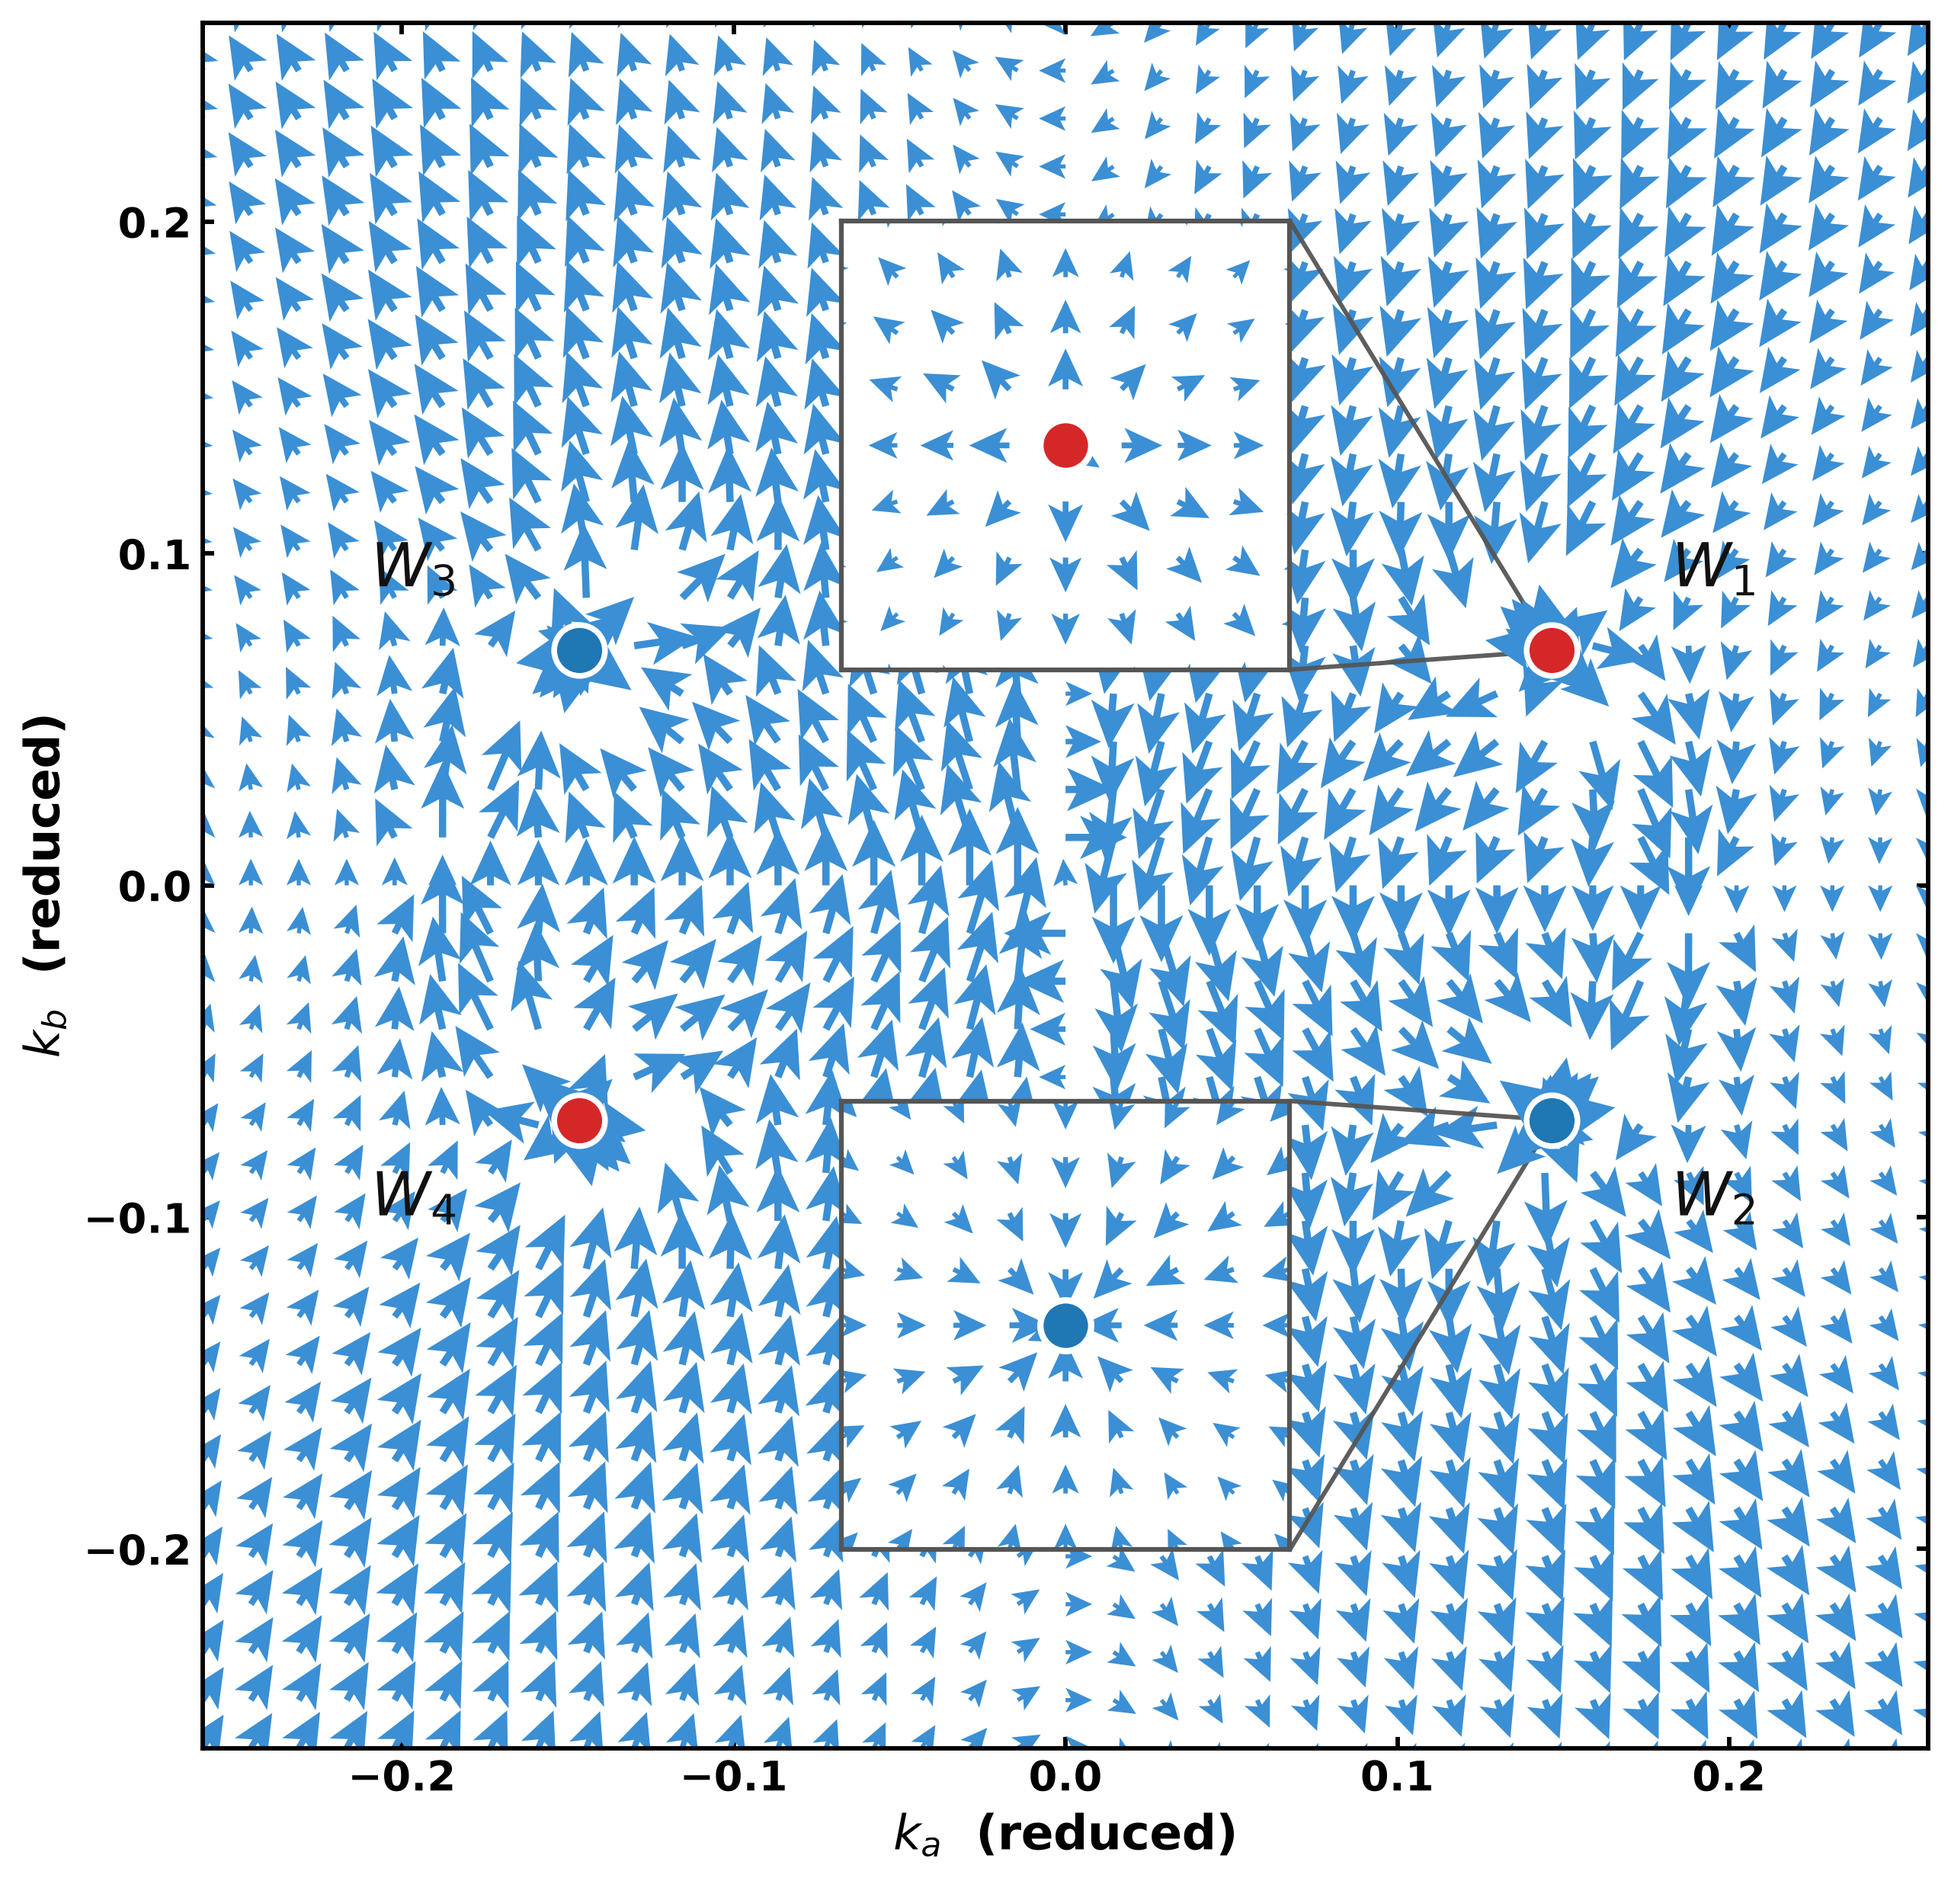
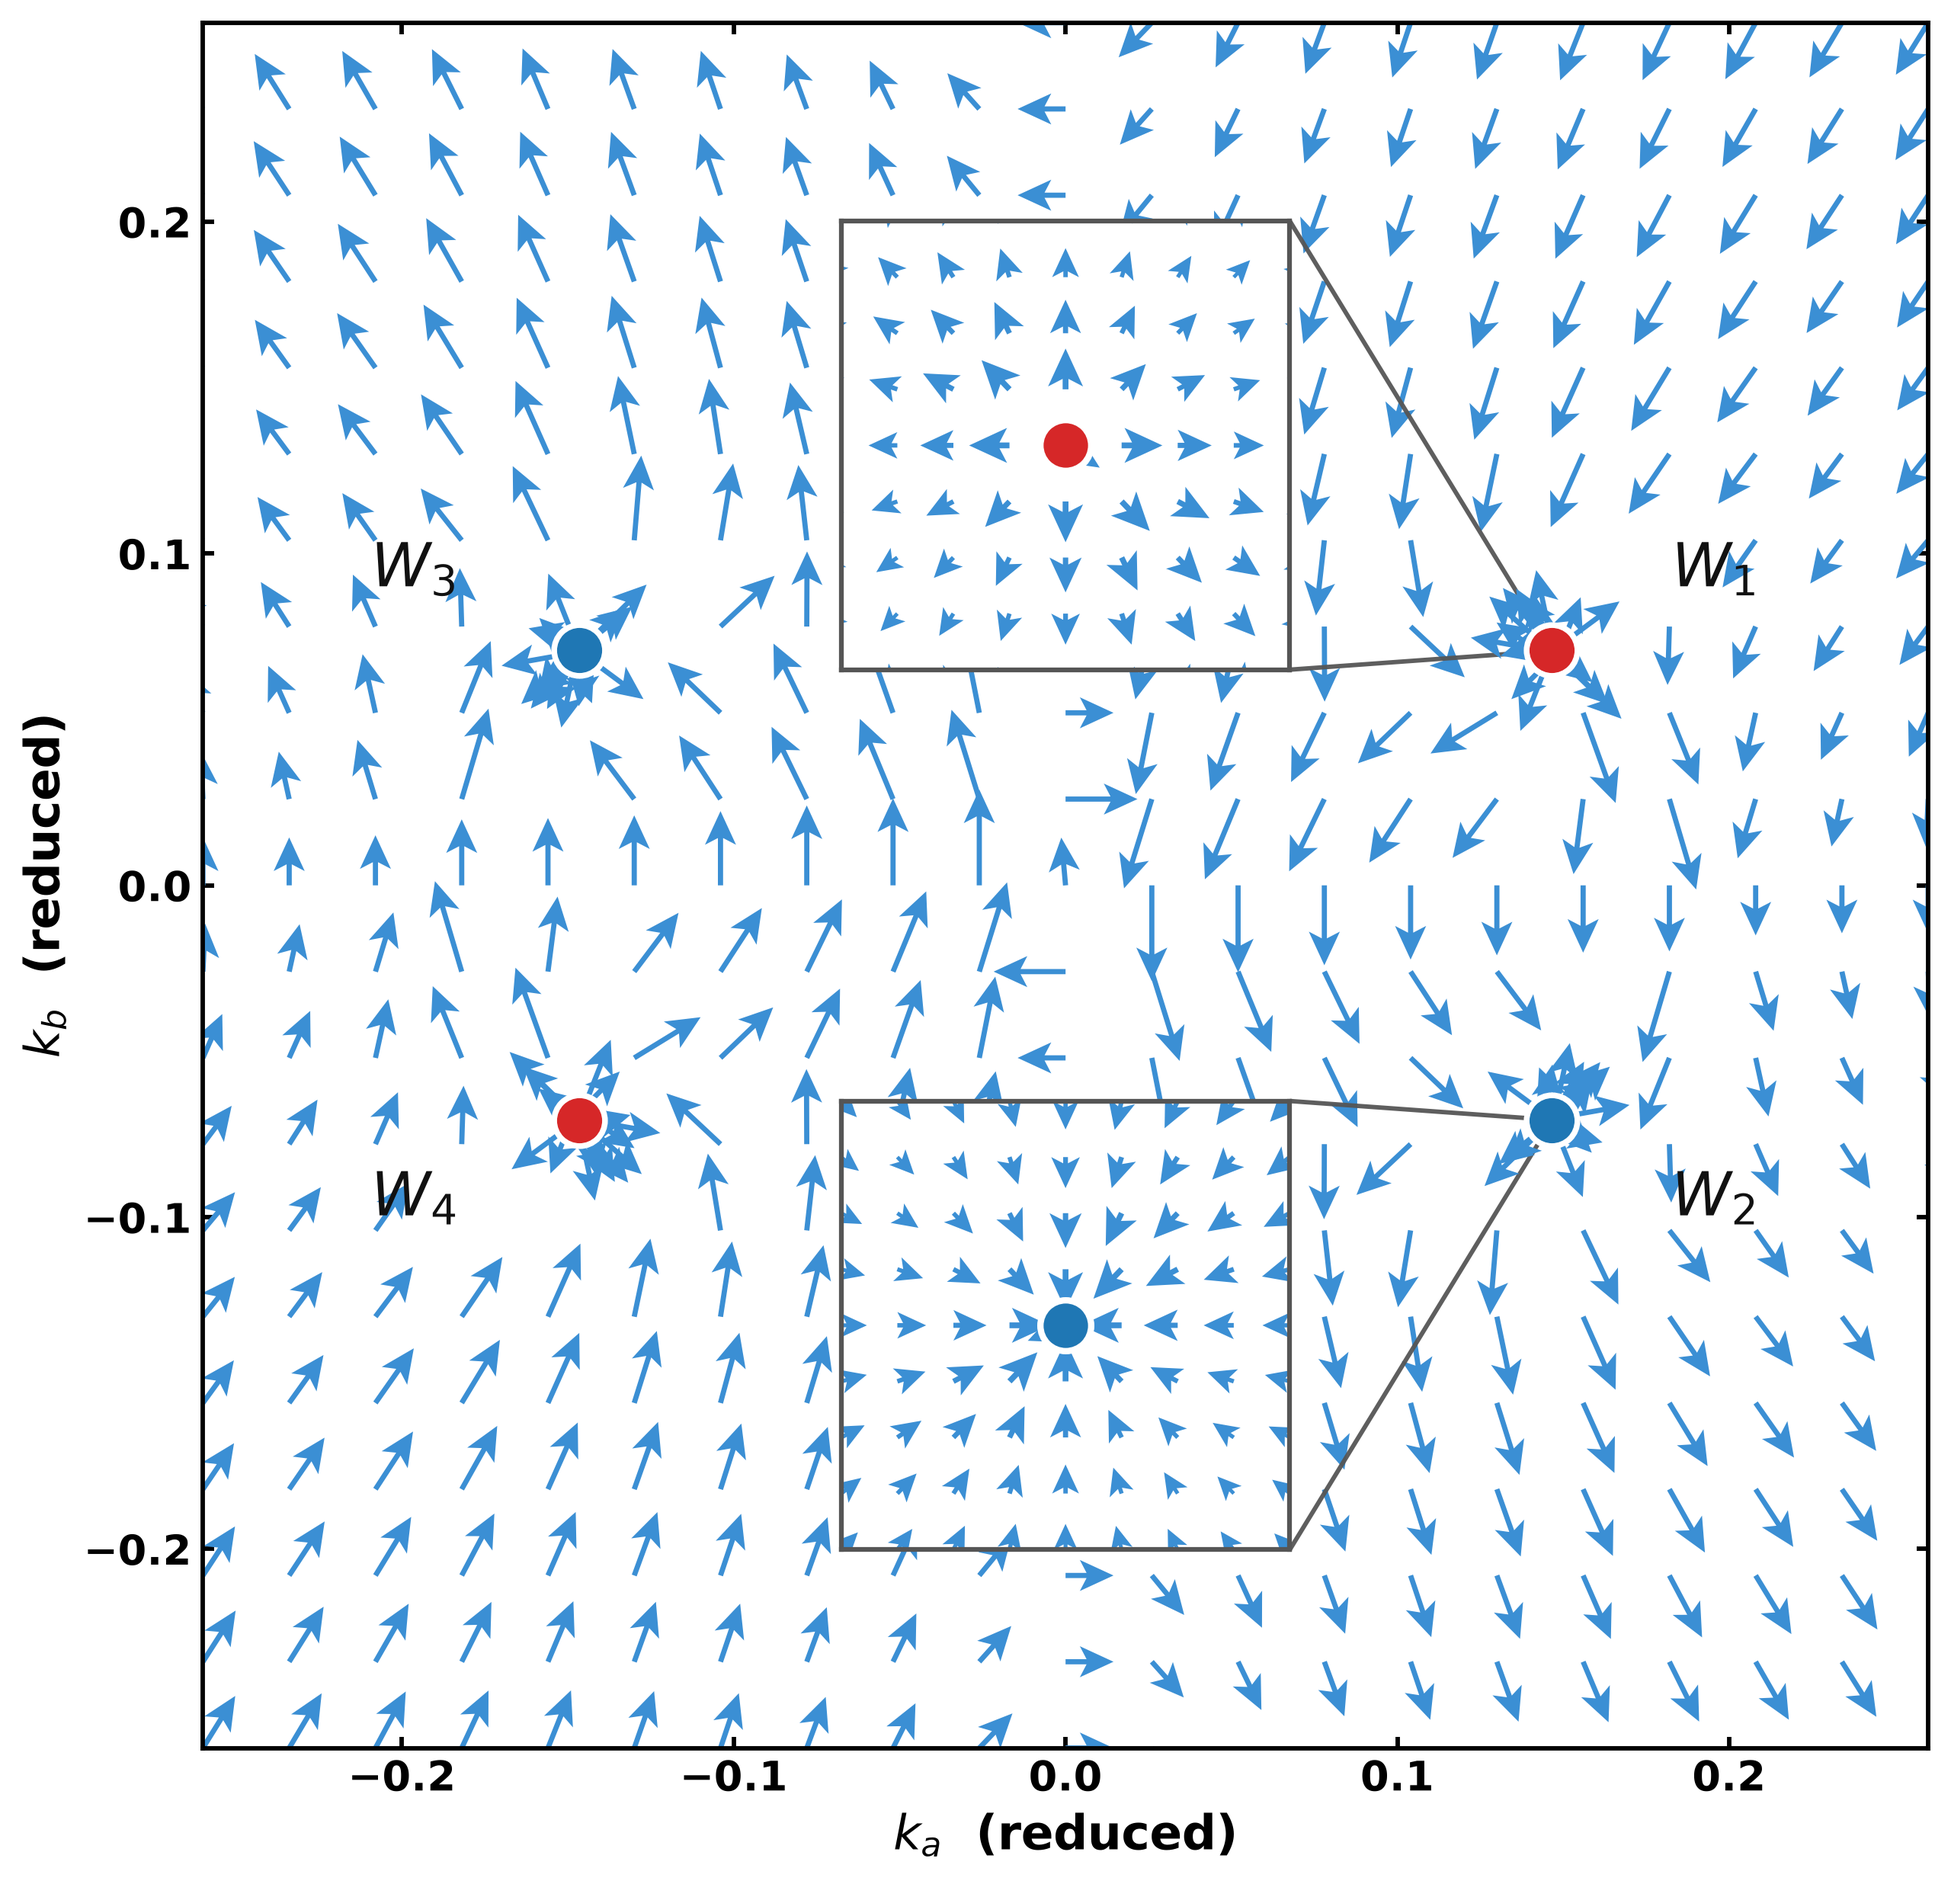
fig9: 전체 장 격자 37x37 -> 21x21, 화살표 꼬리 길이 확대
- 격자 간격 0.0144 -> 0.026
- 화살표 길이 확대 (scale 22 -> 18), 길이 하한 0.34 -> 0.50 으로 짧은 화살표도
  대가 보이게.  머리는 shaft width 단위라 width 0.0042 -> 0.0030 으로 줄여
  머리 절대크기는 유지한 채 대 비율을 늘렸다.

Claude-Session: https://claude.ai/code/session_01QhAUpBYpemnn6yKhi2Mgwn

Changed region(s): [[0.0938, 0.0, 1.0, 0.9345]]

diff --git a/scripts/figs/fig9_berry_field.py b/scripts/figs/fig9_berry_field.py
@@ -115,7 +115,7 @@ LOCAL = 'figs/berry_local_sq.npz'
 INS_R = 0.00015                               # 인셋 반경 (reduced)
 
 
-def field(src, n=37, h=3e-4):
+def field(src, n=21, h=3e-4):
     """정사각 창의 성긴 격자.  그리는 해상도 그대로 계산한다."""
     if os.path.exists(CACHE):
         z = np.load(CACHE)
@@ -194,7 +194,7 @@ QKW = dict(color=ARROW, angles='xy', scale_units='width',
            headwidth=6.0, headlength=6.5, headaxislength=5.2)
 
 
-def scaled(u, v, lo=8, hi=99, floor=0.34):
+def scaled(u, v, lo=8, hi=99, floor=0.50):
     """길이를 log|Ω| 로 압축한 화살표 성분.
 
     |Ω| 는 노드에서 1/r² 로 발산하고 먼 곳에서는 거의 0 이라 선형 길이로는
@@ -213,7 +213,7 @@ def scaled(u, v, lo=8, hi=99, floor=0.34):
 
 FIG = 9.8
 fig, ax = plt.subplots(figsize=(FIG, FIG))
-SCALE, WIDTH = 22, 0.0042
+SCALE, WIDTH = 18, 0.0030
 
 A, B = np.meshgrid(ka, kb, indexing='ij')
 GX, GY = A.ravel(), B.ravel()
